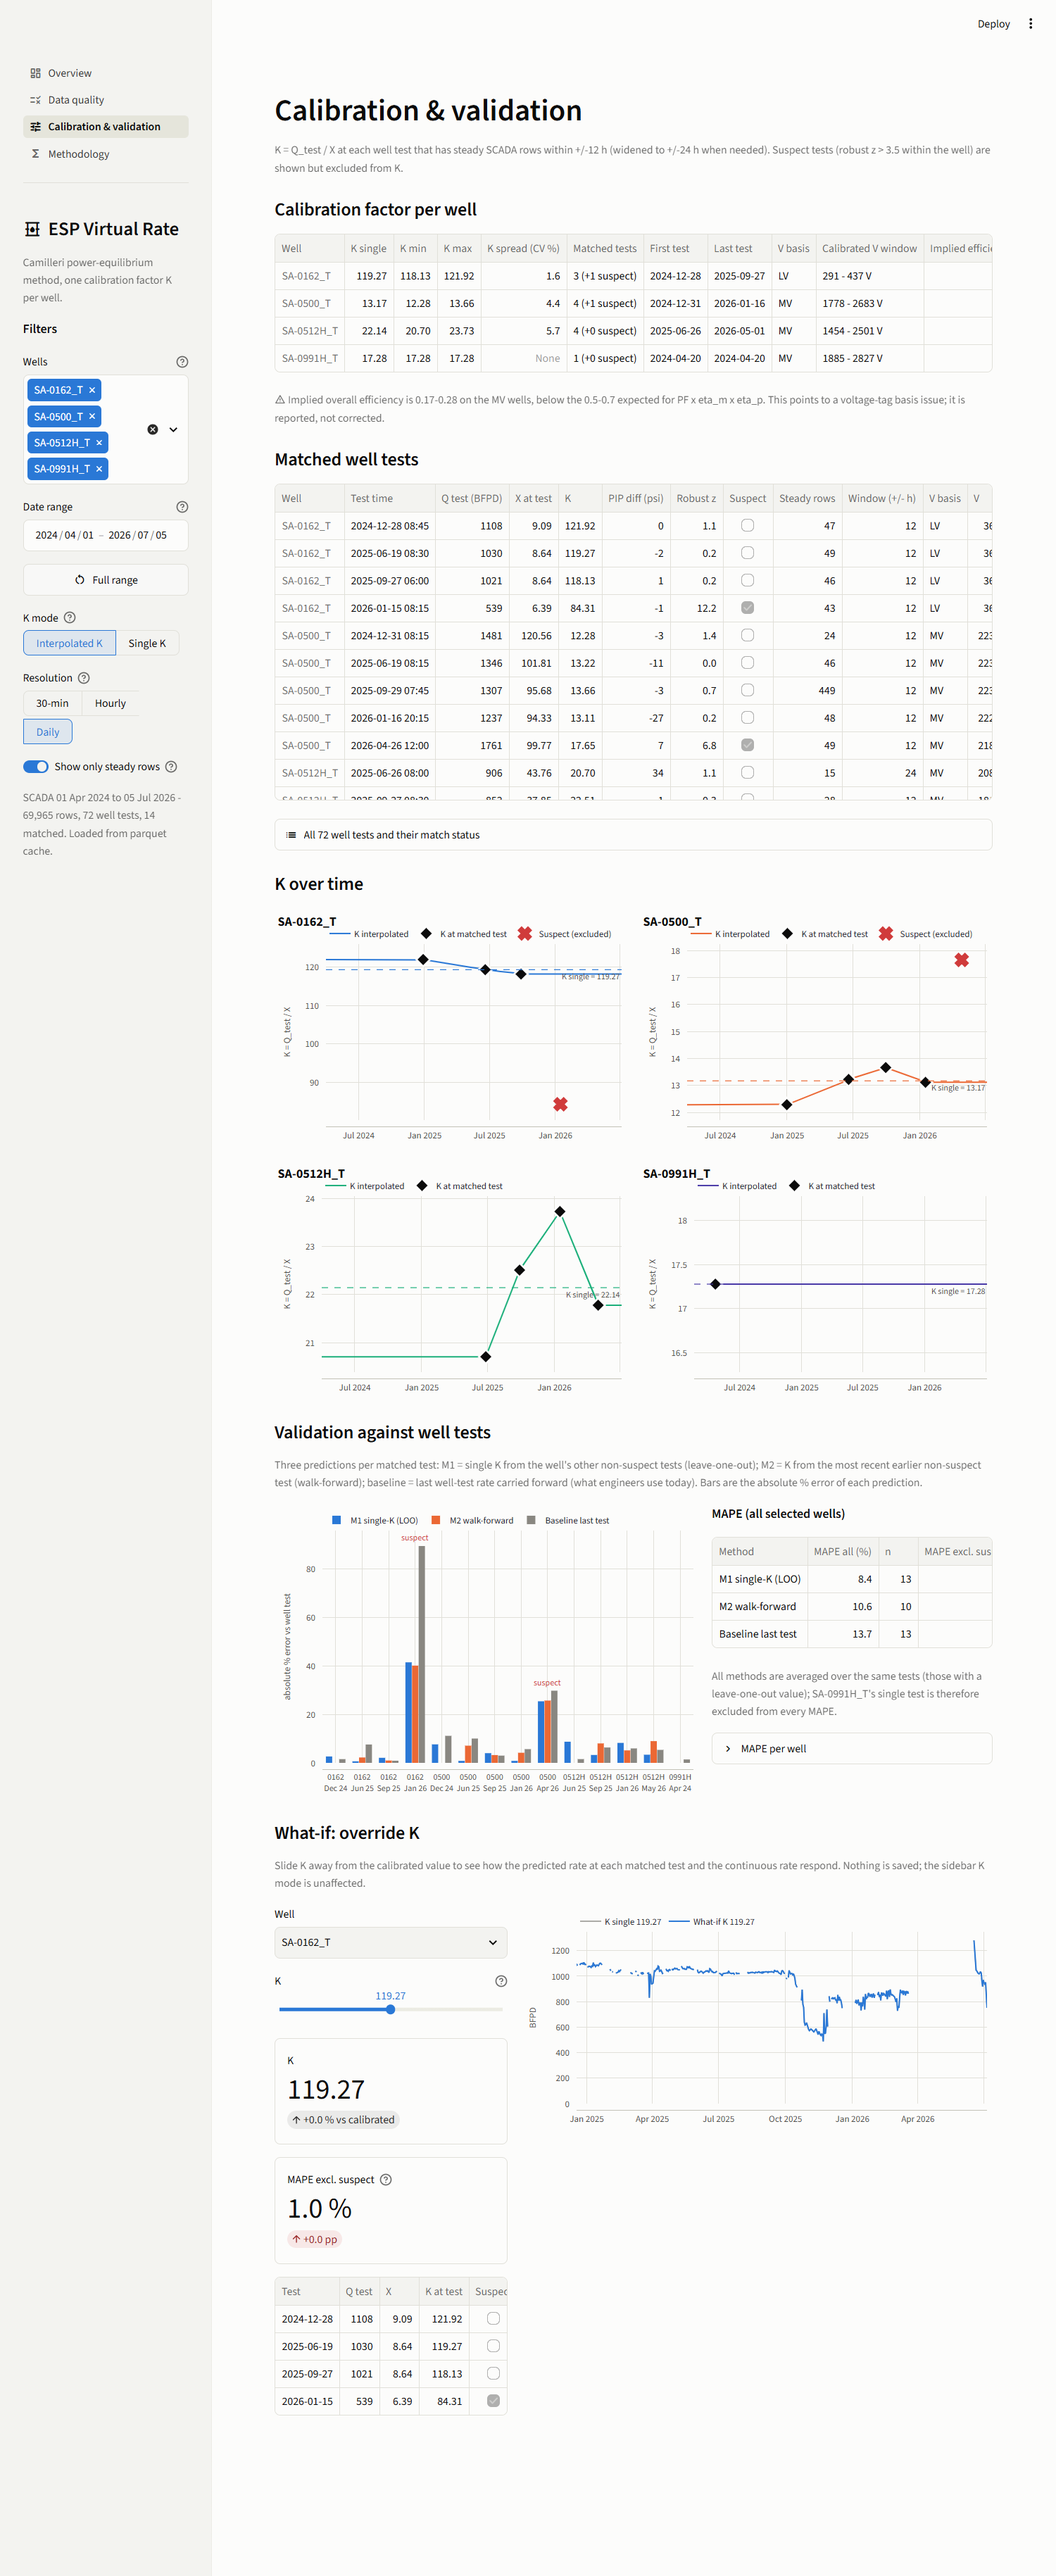
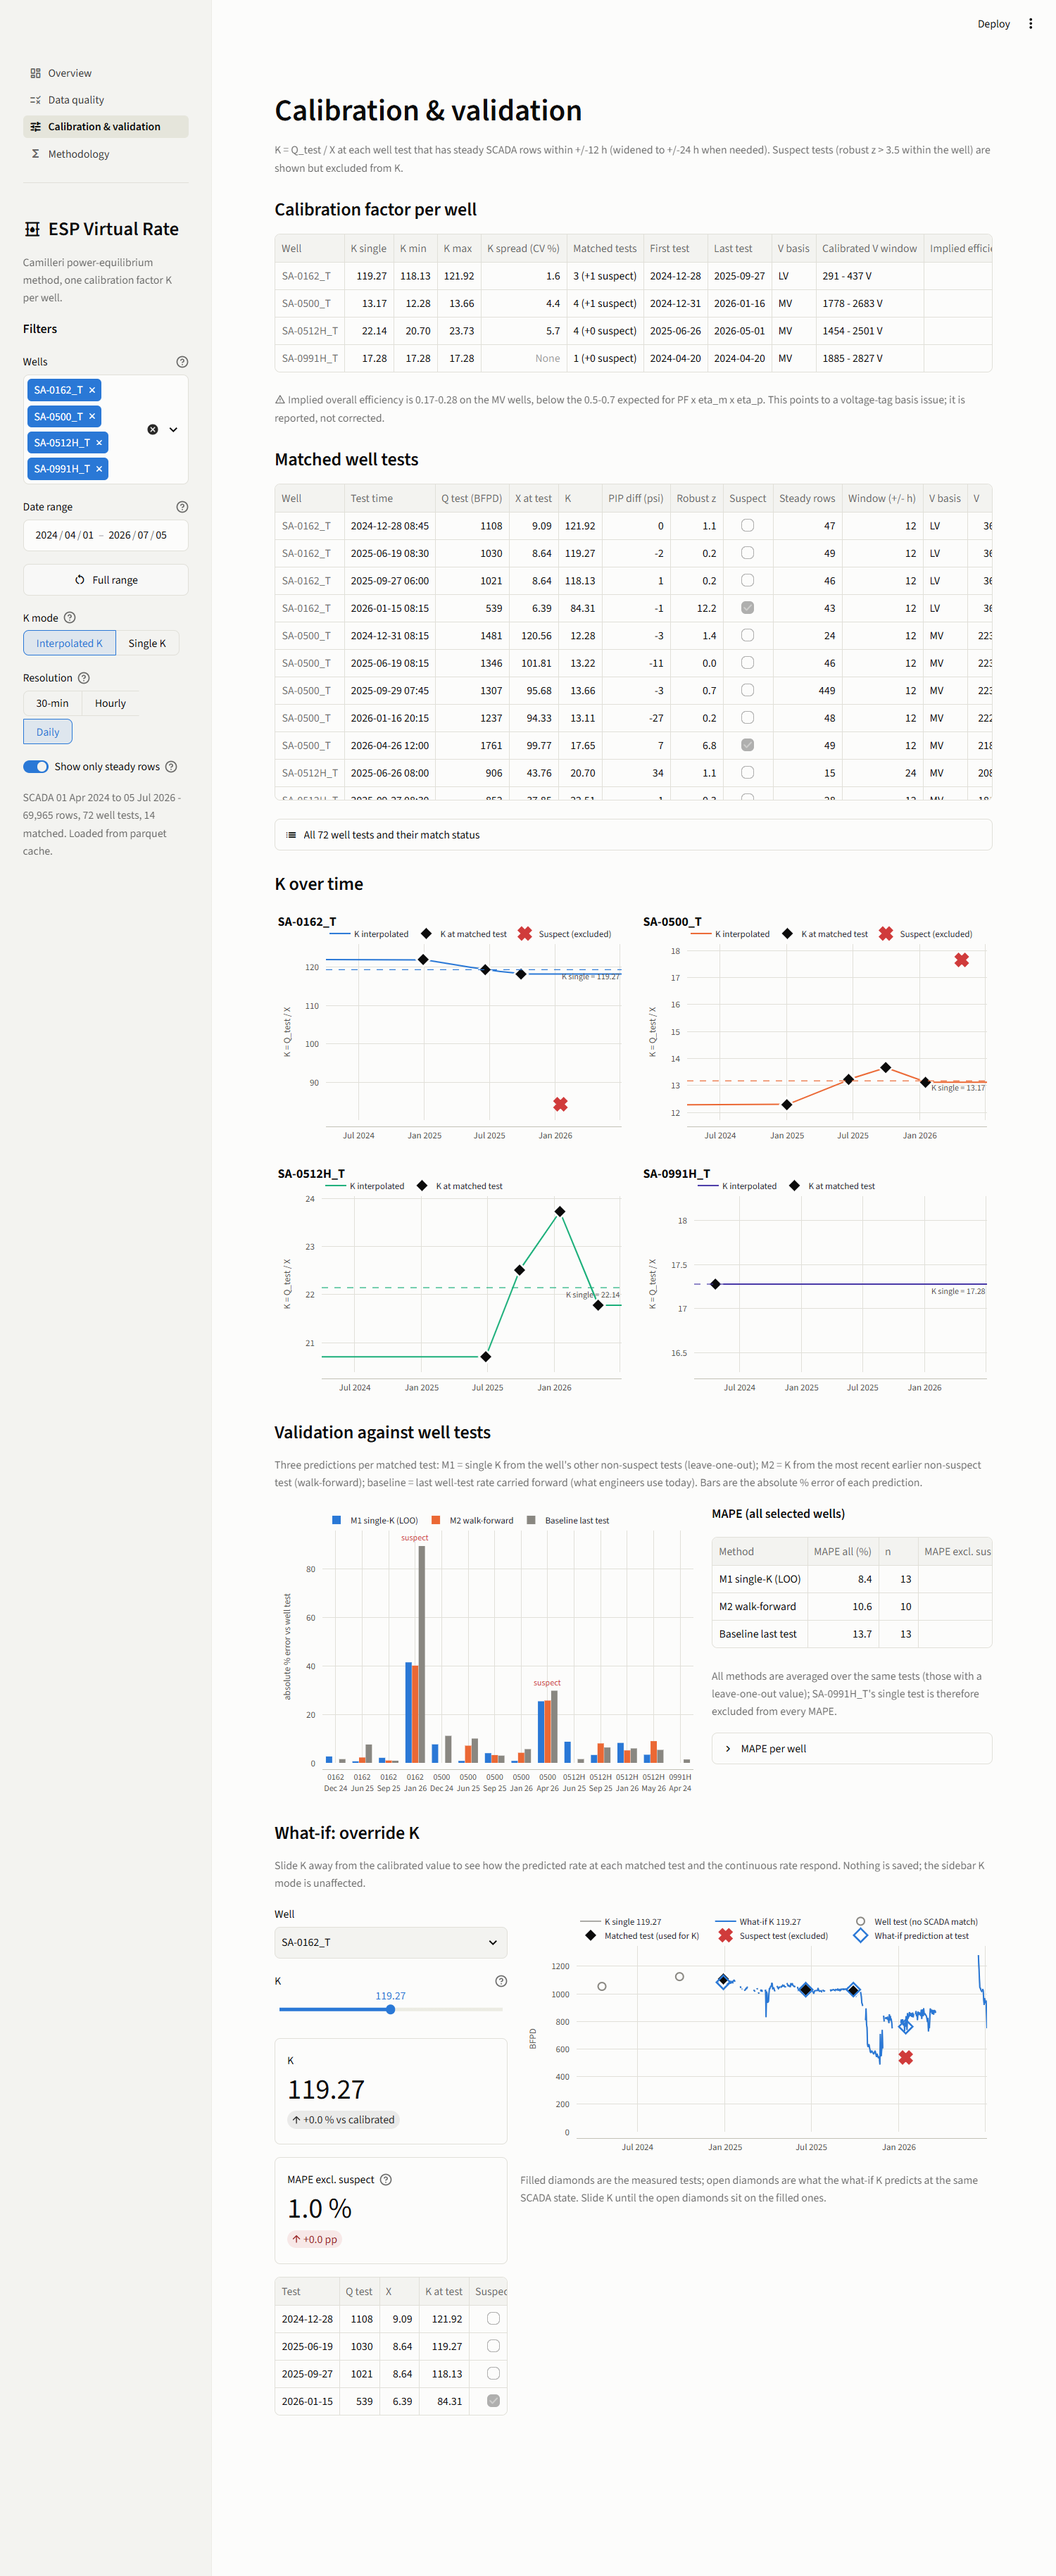
What-if chart: plot measured tests and what-if predictions at each test

Changed region(s): [[0.5213, 0.7477, 0.8893, 0.8101], [0.92, 0.7477, 0.9507, 0.7789], [0.6747, 0.8101, 0.7053, 0.8412]]

diff --git a/ui/charts.py b/ui/charts.py
@@ -198,7 +198,31 @@ def validation_chart(v: pd.DataFrame, height: int = 420) -> go.Figure:
     return fig
 
 
-def whatif_chart(well: str, series: pd.DataFrame, k_ref: float, k_new: float, freq: str, height: int = 320) -> go.Figure:
+def _add_test_markers(fig, tests: pd.DataFrame, row=None, col=None):
+    """Measured well tests: open circle = no SCADA match, ink diamond = used for K, red x = suspect."""
+    if tests is None or len(tests) == 0:
+        return
+    kw = dict(row=row, col=col) if row else {}
+    other = tests[tests["MATCH"] != "MATCHED"]
+    good = tests[(tests["MATCH"] == "MATCHED") & ~tests["suspect"].fillna(False).astype(bool)]
+    bad = tests[(tests["MATCH"] == "MATCHED") & tests["suspect"].fillna(False).astype(bool)]
+    if len(other):
+        fig.add_scatter(x=other["TEST_TS"], y=other["Q_LIQ"], mode="markers", name="Well test (no SCADA match)",
+                        marker=dict(symbol="circle-open", size=11, color=MUTED, line=dict(width=2)),
+                        customdata=other["MATCH"], hovertemplate="test %{y:,.0f} BFPD (%{customdata})<extra></extra>", **kw)
+    if len(good):
+        fig.add_scatter(x=good["TEST_TS"], y=good["Q_LIQ"], mode="markers", name="Matched test (used for K)",
+                        marker=dict(symbol="diamond", size=15, color=TEST_MARK, line=dict(width=2.5, color="white")),
+                        customdata=good["K"], hovertemplate="test %{y:,.0f} BFPD, K=%{customdata:.2f}<extra></extra>", **kw)
+    if len(bad):
+        fig.add_scatter(x=bad["TEST_TS"], y=bad["Q_LIQ"], mode="markers", name="Suspect test (excluded)",
+                        marker=dict(symbol="x", size=16, color=CRITICAL, line=dict(width=2, color=CRITICAL)),
+                        customdata=bad["K"], hovertemplate="suspect test %{y:,.0f} BFPD, K=%{customdata:.2f}<extra></extra>", **kw)
+
+
+def whatif_chart(well: str, series: pd.DataFrame, k_ref: float, k_new: float, freq: str,
+                 tests: pd.DataFrame | None = None, whatif_at_tests: pd.DataFrame | None = None,
+                 height: int = 360) -> go.Figure:
     fig = go.Figure()
     color = WELL_COLORS[well]
     if not series.empty:
@@ -208,6 +232,13 @@ def whatif_chart(well: str, series: pd.DataFrame, k_ref: float, k_new: float, fr
         fig.add_scatter(x=series["TIME_STAMP"], y=k_new * series["X"], mode="lines",
                         name=f"What-if K {k_new:.2f}", line=dict(color=color, width=2), connectgaps=False,
                         hovertemplate="%{y:,.0f} BFPD<extra>what-if</extra>")
+    _add_test_markers(fig, tests)
+    if whatif_at_tests is not None and len(whatif_at_tests):
+        fig.add_scatter(x=whatif_at_tests["TEST_TS"], y=whatif_at_tests["Q_whatif"], mode="markers",
+                        name="What-if prediction at test",
+                        marker=dict(symbol="diamond-open", size=15, color=color, line=dict(width=2.5)),
+                        customdata=whatif_at_tests["APE_whatif"],
+                        hovertemplate="what-if %{y:,.0f} BFPD (APE %{customdata:.1f} %)<extra></extra>")
     base_layout(fig, height=height)
     fig.update_yaxes(title_text="BFPD", rangemode="tozero")
     return fig

diff --git a/app_pages/calibration.py b/app_pages/calibration.py
@@ -151,4 +151,8 @@ with wcols[0]:
         "APE_whatif": st.column_config.NumberColumn("APE %", format="%.1f")})
 with wcols[1]:
     series = D.rate_series(w, f["start"], f["end"], "D" if f["freq"] == "30min" else f["freq"], True)
-    st.plotly_chart(whatif_chart(w, series, k_ref, k_new, f["freq"]), key="whatif_chart", config=dict(displaylogo=False))
+    tests_w = D.tests_in_range(w, f["start"], f["end"])
+    st.plotly_chart(whatif_chart(w, series, k_ref, k_new, f["freq"], tests=tests_w, whatif_at_tests=t),
+                    key="whatif_chart", config=dict(displaylogo=False))
+    st.caption("Filled diamonds are the measured tests; open diamonds are what the what-if K predicts at the same SCADA state. "
+               "Slide K until the open diamonds sit on the filled ones.")
